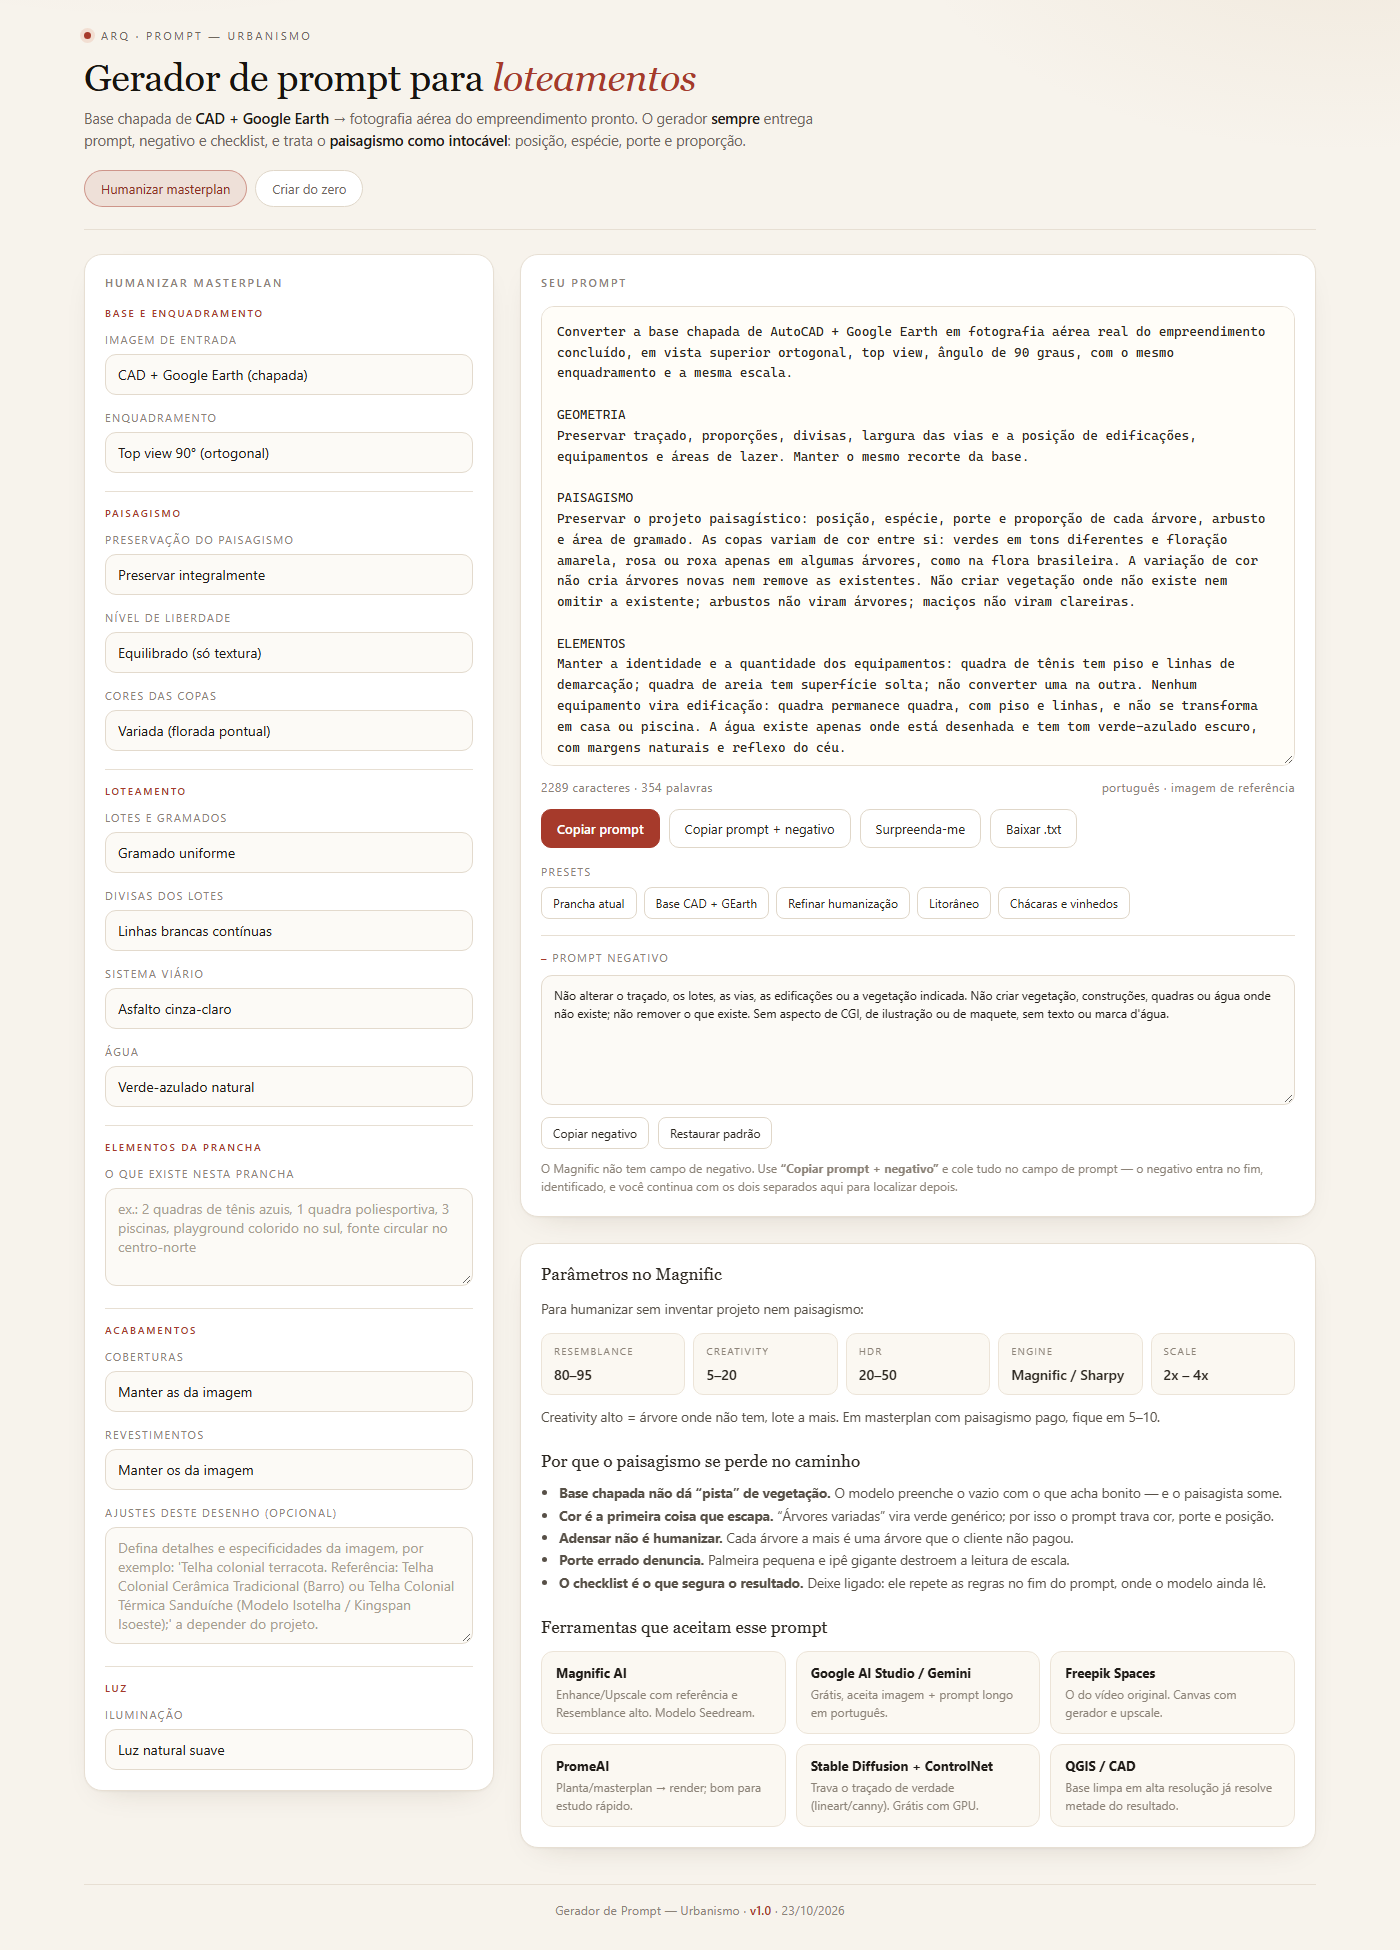
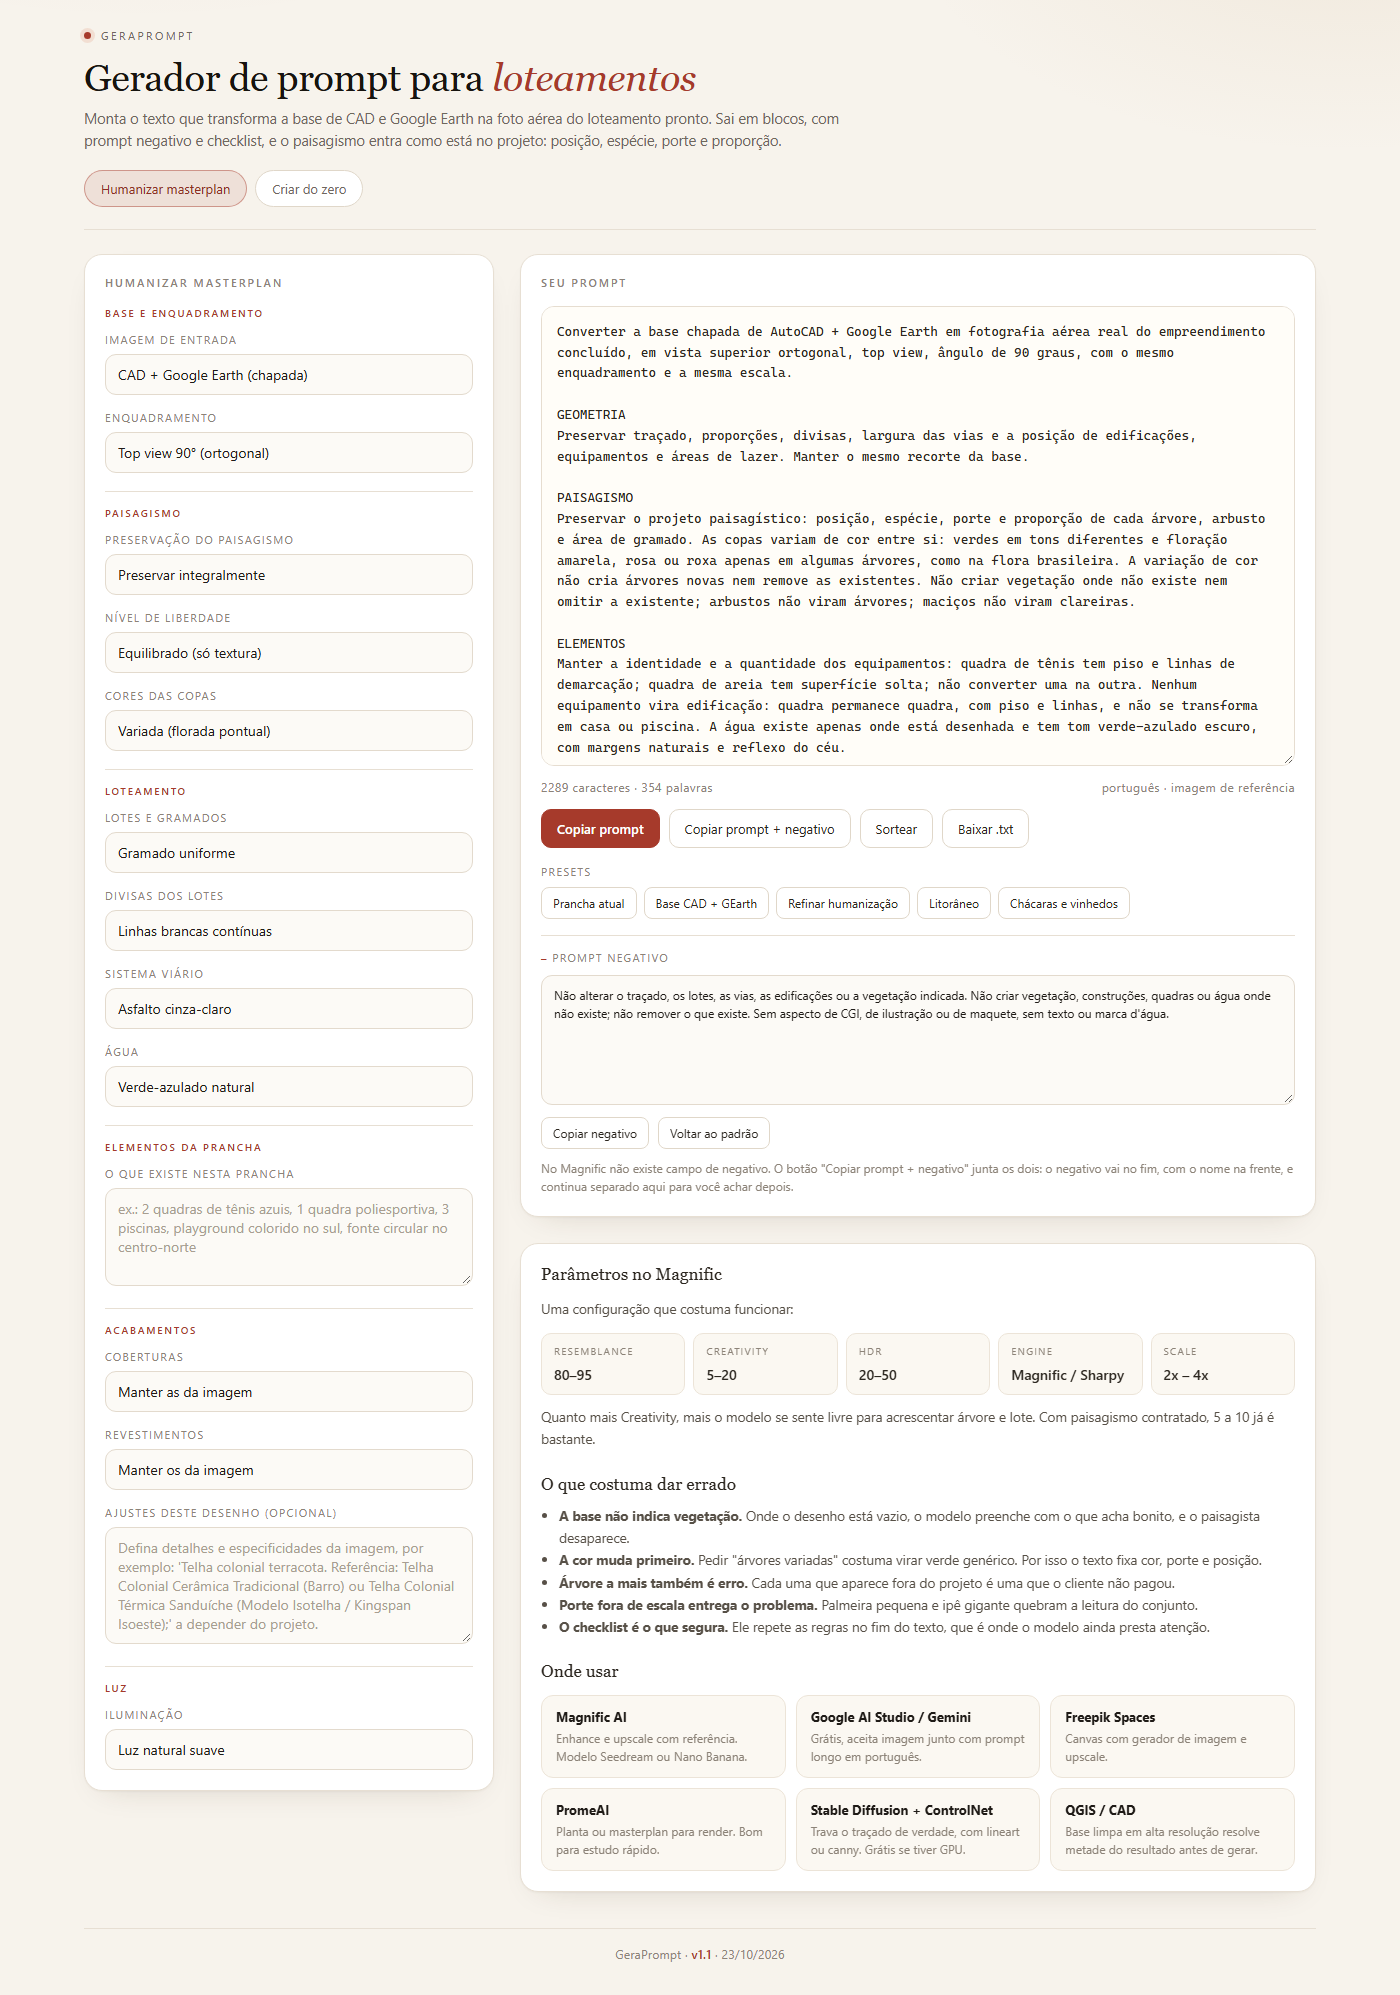
style: humaniza os textos da interface (v1.1)

diff --git a/index.html b/index.html
@@ -3,8 +3,8 @@
 <head>
 <meta charset="utf-8">
 <meta name="viewport" content="width=device-width, initial-scale=1">
-<meta name="description" content="Gerador de prompt para transformar bases de AutoCAD + Google Earth em fotografias aéreas realistas de loteamentos e condomínios.">
-<title>Gerador de Prompt — Urbanismo</title>
+<meta name="description" content="Monta o prompt que transforma base de CAD e Google Earth em foto aérea de loteamento, com paisagismo preservado.">
+<title>GeraPrompt — gerador de prompt para loteamentos</title>
 <style>
   :root{
     --bg:#0c0c0d; --panel:#131316; --panel2:#1b1b1f; --line:#26262b;
@@ -192,9 +192,9 @@
 <div class="wrap">
 
   <header>
-    <div class="brand"><span class="dot"></span> Arq · Prompt — Urbanismo</div>
+    <div class="brand"><span class="dot"></span> GeraPrompt</div>
     <h1>Gerador de prompt para <em>loteamentos</em></h1>
-    <p class="sub">Base chapada de <b>CAD + Google Earth</b> → fotografia aérea do empreendimento pronto. O gerador <b>sempre</b> entrega prompt, negativo e checklist, e trata o <b>paisagismo como intocável</b>: posição, espécie, porte e proporção.</p>
+    <p class="sub">Monta o texto que transforma a base de CAD e Google Earth na foto aérea do loteamento pronto. Sai em blocos, com prompt negativo e checklist, e o paisagismo entra como está no projeto: posição, espécie, porte e proporção.</p>
     <div class="tabs" role="tablist">
       <button class="tabbtn" role="tab" aria-selected="true" data-tab="hum">Humanizar masterplan</button>
       <button class="tabbtn" role="tab" aria-selected="false" data-tab="criar">Criar do zero</button>
@@ -338,7 +338,7 @@
         <div class="btns">
           <button class="btn primary" id="copy">Copiar prompt</button>
           <button class="btn" id="copy-all">Copiar prompt + negativo</button>
-          <button class="btn" id="shuffle">Surpreenda-me</button>
+          <button class="btn" id="shuffle">Sortear</button>
           <button class="btn" id="download">Baixar .txt</button>
         </div>
 
@@ -350,15 +350,15 @@
           <textarea id="negative" spellcheck="false"></textarea>
           <div class="btns" style="margin-top:8px">
             <button class="btn small" id="copy-neg">Copiar negativo</button>
-            <button class="btn small" id="reset-neg">Restaurar padrão</button>
+            <button class="btn small" id="reset-neg">Voltar ao padrão</button>
           </div>
-          <p class="hint">O Magnific não tem campo de negativo. Use <b>“Copiar prompt + negativo”</b> e cole tudo no campo de prompt — o negativo entra no fim, identificado, e você continua com os dois separados aqui para localizar depois.</p>
+          <p class="hint">No Magnific não existe campo de negativo. O botão "Copiar prompt + negativo" junta os dois: o negativo vai no fim, com o nome na frente, e continua separado aqui para você achar depois.</p>
         </details>
       </div>
 
       <div class="card guide">
         <h3>Parâmetros no Magnific</h3>
-        <p>Para humanizar sem inventar projeto nem paisagismo:</p>
+        <p>Uma configuração que costuma funcionar:</p>
         <div class="mag">
           <div><small>Resemblance</small><b>80–95</b></div>
           <div><small>Creativity</small><b>5–20</b></div>
@@ -366,32 +366,32 @@
           <div><small>Engine</small><b>Magnific / Sharpy</b></div>
           <div><small>Scale</small><b>2x – 4x</b></div>
         </div>
-        <p class="hint">Creativity alto = árvore onde não tem, lote a mais. Em masterplan com paisagismo pago, fique em 5–10.</p>
+        <p class="hint">Quanto mais Creativity, mais o modelo se sente livre para acrescentar árvore e lote. Com paisagismo contratado, 5 a 10 já é bastante.</p>
 
-        <h3 style="margin-top:24px">Por que o paisagismo se perde no caminho</h3>
+        <h3 style="margin-top:24px">O que costuma dar errado</h3>
         <ul>
-          <li><b>Base chapada não dá “pista” de vegetação.</b> O modelo preenche o vazio com o que acha bonito — e o paisagista some.</li>
-          <li><b>Cor é a primeira coisa que escapa.</b> “Árvores variadas” vira verde genérico; por isso o prompt trava cor, porte e posição.</li>
-          <li><b>Adensar não é humanizar.</b> Cada árvore a mais é uma árvore que o cliente não pagou.</li>
-          <li><b>Porte errado denuncia.</b> Palmeira pequena e ipê gigante destroem a leitura de escala.</li>
-          <li><b>O checklist é o que segura o resultado.</b> Deixe ligado: ele repete as regras no fim do prompt, onde o modelo ainda lê.</li>
+          <li><b>A base não indica vegetação.</b> Onde o desenho está vazio, o modelo preenche com o que acha bonito, e o paisagista desaparece.</li>
+          <li><b>A cor muda primeiro.</b> Pedir "árvores variadas" costuma virar verde genérico. Por isso o texto fixa cor, porte e posição.</li>
+          <li><b>Árvore a mais também é erro.</b> Cada uma que aparece fora do projeto é uma que o cliente não pagou.</li>
+          <li><b>Porte fora de escala entrega o problema.</b> Palmeira pequena e ipê gigante quebram a leitura do conjunto.</li>
+          <li><b>O checklist é o que segura.</b> Ele repete as regras no fim do texto, que é onde o modelo ainda presta atenção.</li>
         </ul>
 
-        <h3 style="margin-top:24px">Ferramentas que aceitam esse prompt</h3>
+        <h3 style="margin-top:24px">Onde usar</h3>
         <div class="tools">
-          <div class="tool"><b>Magnific AI</b><span>Enhance/Upscale com referência e Resemblance alto. Modelo Seedream.</span></div>
-          <div class="tool"><b>Google AI Studio / Gemini</b><span>Grátis, aceita imagem + prompt longo em português.</span></div>
-          <div class="tool"><b>Freepik Spaces</b><span>O do vídeo original. Canvas com gerador e upscale.</span></div>
-          <div class="tool"><b>PromeAI</b><span>Planta/masterplan → render; bom para estudo rápido.</span></div>
-          <div class="tool"><b>Stable Diffusion + ControlNet</b><span>Trava o traçado de verdade (lineart/canny). Grátis com GPU.</span></div>
-          <div class="tool"><b>QGIS / CAD</b><span>Base limpa em alta resolução já resolve metade do resultado.</span></div>
+          <div class="tool"><b>Magnific AI</b><span>Enhance e upscale com referência. Modelo Seedream ou Nano Banana.</span></div>
+          <div class="tool"><b>Google AI Studio / Gemini</b><span>Grátis, aceita imagem junto com prompt longo em português.</span></div>
+          <div class="tool"><b>Freepik Spaces</b><span>Canvas com gerador de imagem e upscale.</span></div>
+          <div class="tool"><b>PromeAI</b><span>Planta ou masterplan para render. Bom para estudo rápido.</span></div>
+          <div class="tool"><b>Stable Diffusion + ControlNet</b><span>Trava o traçado de verdade, com lineart ou canny. Grátis se tiver GPU.</span></div>
+          <div class="tool"><b>QGIS / CAD</b><span>Base limpa em alta resolução resolve metade do resultado antes de gerar.</span></div>
         </div>
       </div>
     </section>
 
   </div>
 
-  <footer class="ver">Gerador de Prompt — Urbanismo · <b>v1.0</b> · 23/10/2026</footer>
+  <footer class="ver">GeraPrompt · <b>v1.1</b> · 23/10/2026</footer>
 </div>
 
 <div class="toast" id="toast">copiado</div>
